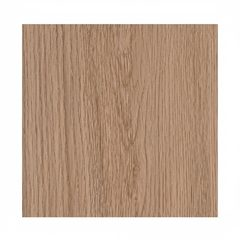
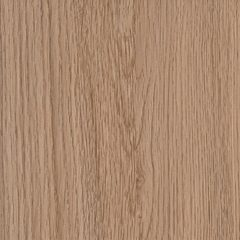
Убрать белые кромки неоткадрированных текстур
Клиент нашёл белые рамки у «Дуб Карамель» и «Бук Бавария» и сообщил, что
микро-рамки есть и на других позициях. Замер по всем 68 исходникам: рамка
у пяти, шире всего у «Дуб Карамель» — около 100 px.

Признак рамки не яркость, а ровность линии: у поля бумаги медиана от 245
при разбросе не выше 4. Порог по яркости срезал бы живую текстуру у
«Calacatta Carrara» (медиана 236) и «Кожа белая» (213) — они белые сами по
себе. Мягкий переход за рамкой снимается отдельным шагом с ограничителем
в 12 px: без него он съедал светлые волокна дерева, 341 px вместо 97.

Проверено на готовых текстурах: ни у одного из 136 webp и 136 jpg плоской
белой кромки нет. Тесты 14/14. Токен поднят до 20260806a, иначе
вернувшийся посетитель получил бы старые текстуры из кеша.

diff --git a/src/js/main.browser.js b/src/js/main.browser.js
@@ -1,12 +1,12 @@
 // Точка входа: грузим конфиги, собираем модель, поднимаем сцену и меню.
-import { validateCatalog, findItem } from './core/CatalogLoader.js?v=20260805d';
-import { SceneModel } from './core/SceneModel.js?v=20260805d';
-import { encodeState, decodeState } from './core/ShareState.js?v=20260805d';
-import { Scene } from './ui/Scene.js?v=20260805d';
-import { PickerPanel } from './ui/PickerPanel.js?v=20260805d';
-import { saveImage } from './ui/SaveImage.js?v=20260805d';
+import { validateCatalog, findItem } from './core/CatalogLoader.js?v=20260806a';
+import { SceneModel } from './core/SceneModel.js?v=20260806a';
+import { encodeState, decodeState } from './core/ShareState.js?v=20260806a';
+import { Scene } from './ui/Scene.js?v=20260806a';
+import { PickerPanel } from './ui/PickerPanel.js?v=20260806a';
+import { saveImage } from './ui/SaveImage.js?v=20260806a';
 
-const V = '20260805d';
+const V = '20260806a';
 const asset = (p) => `assets/${p}?v=${V}`;
 const shell = document.querySelector('.viz');
 

diff --git a/index.html b/index.html
@@ -18,7 +18,7 @@
        уходят наверх сообщением, а на странице их принимает мост (deploy/tilda-embed.html).
        Если виджет встроен прямо в страницу, где счётчик уже есть, вызов идёт напрямую. -->
   <script>window.VIZ_METRIKA_ID = 109470426;</script>
-  <link rel="stylesheet" href="src/css/viz.css?v=20260805d" />
+  <link rel="stylesheet" href="src/css/viz.css?v=20260806a" />
 </head>
 <body>
   <div class="viz">
@@ -38,6 +38,6 @@
     <div id="viz-picker" class="viz-picker"></div>
   </div>
 
-  <script type="module" src="src/js/main.browser.js?v=20260805d"></script>
+  <script type="module" src="src/js/main.browser.js?v=20260806a"></script>
 </body>
 </html>

diff --git a/tools/make-assets.py b/tools/make-assets.py
@@ -262,6 +262,59 @@ def build_scene():
         print(f"  {f}: {(SCENE / f).stat().st_size / 1024:.0f} КБ")
 
 
+def trim_border(im):
+    """Снимает белую кромку неоткадрированной текстуры и возвращает квадрат.
+
+    Клиент (06.08.2026) попросил убрать белые рамки: часть исходников выгружена
+    без кадрирования, вокруг материала осталось поле бумаги. Рамка есть у пяти
+    позиций из 68, шире всего у «Дуб Карамель» — около 100 px.
+
+    Порог «просто светлая линия» здесь не годится: у «Calacatta Carrara» и
+    «Кожа белая» сам материал белый (медиана 236 и 213), и такой порог срезал бы
+    им живую текстуру. Признак рамки не яркость, а РОВНОСТЬ: у поля бумаги
+    медиана от 245 при разбросе не больше 4, у белого мрамора разброс 5..10.
+    Сразу за рамкой идёт мягкий переход в несколько пикселей (следы пересжатия),
+    его снимаем отдельно: он ещё заметно ближе к белому, чем материал. Без
+    ограничителя в 12 px этот шаг съедал бы светлые волокна дерева — замер по
+    «Дуб Карамель» давал 341 px вместо 97.
+    """
+    a = np.asarray(im.convert("RGB")).astype(np.float32).mean(axis=2)
+    h, w = a.shape
+    ref = float(np.median(a[h // 4:3 * h // 4, w // 4:3 * w // 4]))
+    edge = ref + 0.35 * (255.0 - ref)
+
+    def side(get, n_max):
+        flat = 0
+        for i in range(n_max):
+            ln = get(i)
+            if np.median(ln) >= 245 and ln.std() <= 4:
+                flat = i + 1
+            elif i - flat > 2:
+                break
+        if flat == 0:
+            return 0
+        i = flat
+        while i < min(flat + 12, n_max) and np.median(get(i)) >= edge:
+            i += 1
+        return i
+
+    t = side(lambda i: a[i], h // 3)
+    b = side(lambda i: a[h - 1 - i], h // 3)
+    l = side(lambda i: a[:, i], w // 3)
+    r = side(lambda i: a[:, w - 1 - i], w // 3)
+    if not (t or b or l or r):
+        return im, (0, 0, 0, 0)
+
+    im = im.crop((l, t, w - r, h - b))
+    # Кромки срезаются на разную ширину, и квадрат перестаёт быть квадратом.
+    # Дальше кадр всё равно ужимается в квадрат, поэтому неравенство сторон
+    # растянуло бы рисунок. Приводим к квадрату по центру, а не масштабом.
+    cw, ch = im.size
+    s = min(cw, ch)
+    im = im.crop(((cw - s) // 2, (ch - s) // 2, (cw - s) // 2 + s, (ch - s) // 2 + s))
+    return im, (t, b, l, r)
+
+
 def build_textures():
     TEX.mkdir(parents=True, exist_ok=True)
     catalog = {"series": []}
@@ -278,6 +331,9 @@ def build_textures():
             # Без артикула другого устойчивого ключа нет, берём имя.
             code = slug(article) if article else slug(name)
             im = Image.open(f).convert("RGB")
+            im, cut = trim_border(im)
+            if any(cut):
+                print(f"    кромка снята у «{name}»: t/b/l/r={cut} -> {im.size[0]}px")
             for side, tag in ((900, "w"), (240, "t")):
                 r = im.resize((side, side), Image.LANCZOS)
                 r.save(TEX / f"{code}-{tag}.webp", "WEBP", quality=82, method=5)
